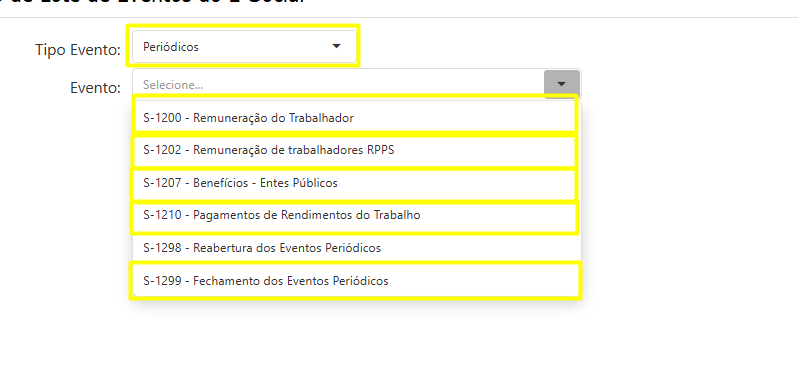
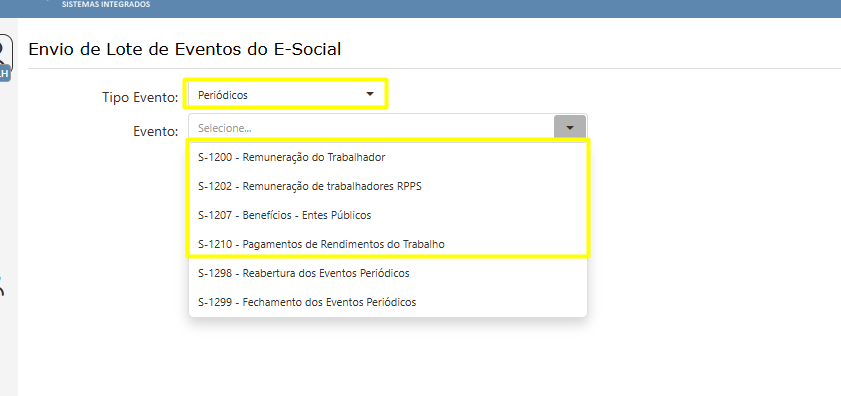
finalizando envio de eventos no e-social

Changed region(s): [[0.0, 0.0, 1.0, 0.837], [0.0, 0.7174, 0.0301, 0.7473]]

diff --git a/pages/recursos_humanos/e-social/SRH_cadastro_evento.html b/pages/recursos_humanos/e-social/SRH_cadastro_evento.html
@@ -99,9 +99,9 @@
             <h4>Passo 9</h4>
             <p class="line"></p>
 
-            <p class="margin_none">Acesse a tela de "Relatório retorno evento" para verificar se houve erro no envio do evento</p>
-            <div class="container_buttons2">
-                <a class="style_button" href="SRH_cad_funcionario.html">Relatório retorno evento</a>
+            <p class="margin_none">Acesse a tela de filtro para verificar se os eventos foram enviados com sucesso ou se houve erro</p>
+            <div class="img_config">
+                <img src="../../../assets/imgGuias/img_recursos_humanos/SRH_19.png" alt="">
             </div>
         </div>
 
@@ -109,9 +109,9 @@
             <h4>Passo 10</h4>
             <p class="line"></p>
 
-            <p class="margin_none">Caso não tenha ocorrido nenhum erro, siga enviando os eventos iniciais EM ORDEM</p>
+            <p class="margin_none">Preencha os campos e clique em filtrar para verificar status de envio do evento: </p>
             <div class="img_config">
-                <img src="../../../assets/imgGuias/img_recursos_humanos/SRH_24.png" alt="">
+                <img src="../../../assets/imgGuias/img_recursos_humanos/SRH_28.png" alt="">
             </div>
         </div>
 
@@ -119,9 +119,10 @@
             <h4>Passo 11</h4>
             <p class="line"></p>
 
-            <p class="margin_none">Após finalizar o envio dos eventos iniciais, faça o envio dos eventos não periódicos</p>
+            <p class="margin_none">Caso o evento estiver com status "Sucesso", siga enviado o próximos eventos.
+            </p>
             <div class="img_config">
-                <img src="../../../assets/imgGuias/img_recursos_humanos/SRH_26.png" alt="">
+                <img src="../../../assets/imgGuias/img_recursos_humanos/SRH_29.png" alt="">
             </div>
         </div>
 
@@ -129,29 +130,84 @@
             <h4>Passo 12</h4>
             <p class="line"></p>
 
-            <p class="margin_none">Repita os passos 8, 9 e 10 para verificar se houve erro no envio dos eventos não periódicos</p>
+            <p class="margin_none">Caso o evento estiver com status "ERRO", clique na lupa e e analise o erro informado, faça as alterações nescessárias e envie o evento novamente.
+            </p>
+            <div class="img_config">
+                <img src="../../../assets/imgGuias/img_recursos_humanos/SRH_30.png" alt="">
+            </div>
         </div>
 
         <div class="passo13">
             <h4>Passo 13</h4>
             <p class="line"></p>
 
-            <p class="margin_none">Após finalizar o envio dos eventos não periódico e verificar se houve erro, faça o envio dos eventos periódicos SEGUINDO A ORDEM: S-1200, S-1202, S-1207, S-1210, S-1299. (O evento S-1298 só deve ser enviado para reabertura de envio dos eventos)  </p>
+            <p class="margin_none">Caso não tenha ocorrido nenhum erro, siga enviando os eventos EM ORDEM</p>
             <div class="img_config">
-                <img src="../../../assets/imgGuias/img_recursos_humanos/SRH_27.png" alt="">
+                <img src="../../../assets/imgGuias/img_recursos_humanos/SRH_24.png" alt="">
             </div>
         </div>
+
 
         <div class="passo14">
             <h4>Passo 14</h4>
             <p class="line"></p>
 
-            <p class="margin_none">Repita os passos 8, 9 e 10 para verificar se houve erro no envio dos eventos periódicos</p>
+            <p class="margin_none">Após finalizar o envio dos eventos iniciais e verificar se houve erro, faça o envio dos eventos periódicos SEGUINDO A ORDEM: S-1200, S-1202, S-1207, S-1210</p>
+            <div class="img_config">
+                <img src="../../../assets/imgGuias/img_recursos_humanos/SRH_27.png" alt="">
+            </div>
         </div>
 
+        <div class="passo15">
+            <h4>Passo 15</h4>
+            <p class="line"></p>
 
+            <p class="margin_none">Repita os passos 9, 10, 11 e 12 para verificar se houve erro no envio dos eventos periódicos</p>
+        </div>
+
+        <div class="passo16">
+            <h4>Passo 16</h4>
+            <p class="line"></p>
+
+            <p class="margin_none">Após finalizar o envio dos eventos periódicos, faça o envio dos eventos não periódicos(afastamento, admissão, desligamento..)</p>
+            <div class="img_config">
+                <img src="../../../assets/imgGuias/img_recursos_humanos/SRH_26.png" alt="">
+            </div>
+        </div>
+
+        <div class="passo17">
+            <h4>Passo 1</h4>
+            <p class="line"></p>
+
+            <p class="margin_none">Repita os passos 9, 10, 11 e 12 para verificar se houve erro no envio dos eventos não periódicos</p>
+        </div>
         
+        <div class="passo18">
+            <h4>Passo 18</h4>
+            <p class="line"></p>
 
+            <p class="margin_none">Após finalizar o envio dos eventos não periódicos e verificar se houve erro, faça o envio do evento periódico: S-1299</p>
+            <div class="img_config">
+                <img src="../../../assets/imgGuias/img_recursos_humanos/SRH_31.png" alt="">
+            </div>
+        </div>
+
+        <div class="passo19">
+            <h4>Passo 19</h4>
+            <p class="line"></p>
+
+            <p class="margin_none">Repita os passos 9, 10, 11 e 12 para verificar se houve erro no envio do evento S-1299</p>
+        </div>
+
+        <div class="passo20">
+            <h4>Passo 20</h4>
+            <p class="line"></p>
+
+            <p class="margin_none">Após finalizar o envio te TODOS os eventos, faça a conferência na tela "Retorno Evento"</p>
+            <div class="container_buttons2">
+                <a class="style_button" href="">Relatório de Retorno eventos</a>
+            </div>
+        </div>
 
 
 

diff --git a/pages/recursos_humanos/e-social/SRH_esocial_home.html b/pages/recursos_humanos/e-social/SRH_esocial_home.html
@@ -1,0 +1,27 @@
+<!DOCTYPE html>
+<html lang="pt-BR">
+<head>
+    <meta charset="UTF-8">
+    <meta name="viewport" content="width=device-width, initial-scale=1.0">
+    <title>Guia cadastro de funcionário</title>
+    <link rel="stylesheet" href="../../../style/global.css">
+</head>
+<body class="flexColumnCenter">
+    <div>
+        <button class="voltar" onclick="history.back()">
+            <img src="../../../assets/icons/seta.svg" alt="ícone de seta">
+            <p>Voltar</p>
+        </button>
+    </div>
+
+    <div class="subtitulo">
+        <h1>Passo a passo E-social</h1> 
+    </div>
+
+    <div class="container_buttons">
+        <a class="style_button" href="SRH_cadastro_evento.html">Criação de eventos</a>
+        <a class="style_button" href="SRH_folha_pagamento.html">Relatório retorno eventos</a>
+        <a class="style_button" href="SRH_folha_pagamento.html">Inconsistência folha</a>
+    </div>
+
+</body>

diff --git a/pages/recursos_humanos/SRH_rh_home.html b/pages/recursos_humanos/SRH_rh_home.html
@@ -22,7 +22,7 @@
         <a class="style_button" href="SRH_cad_funcionario.html">Cadastro de funcionário</a>
         <a class="style_button" href="SRH_folha_pagamento.html">Folha de pagamento</a>
         <a class="style_button" href="">Verbas e proventos</a>
-        <a class="style_button" href="SRH_esocial_home.html">E-social</a>
+        <a class="style_button" href="e-social/SRH_esocial_home.html">E-social</a>
     </div>
 </body>
 </html>
